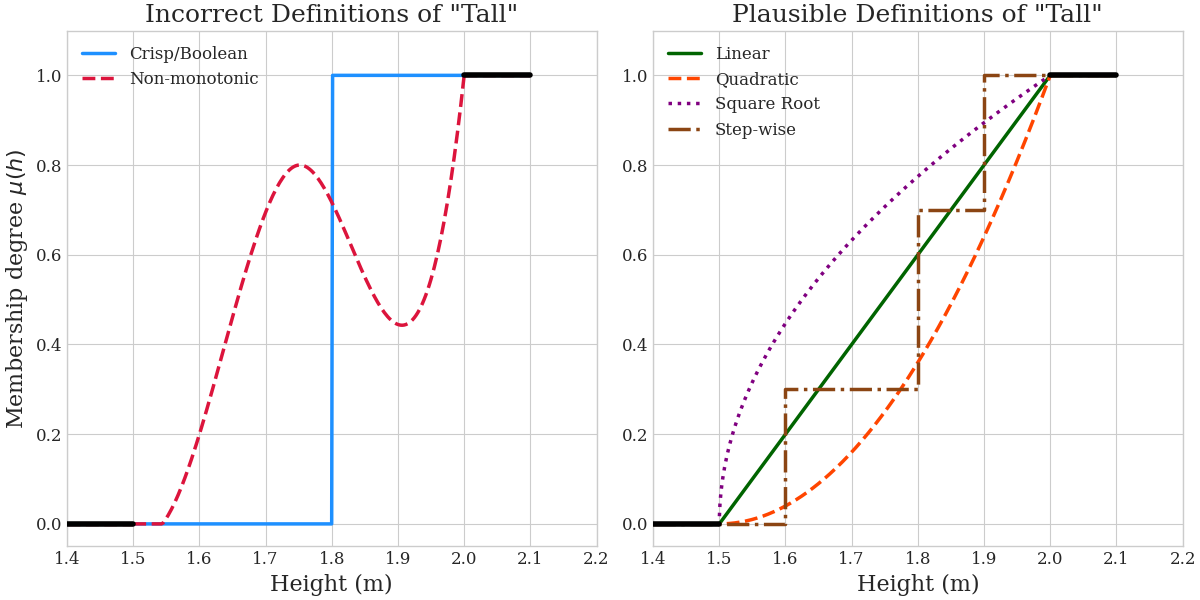
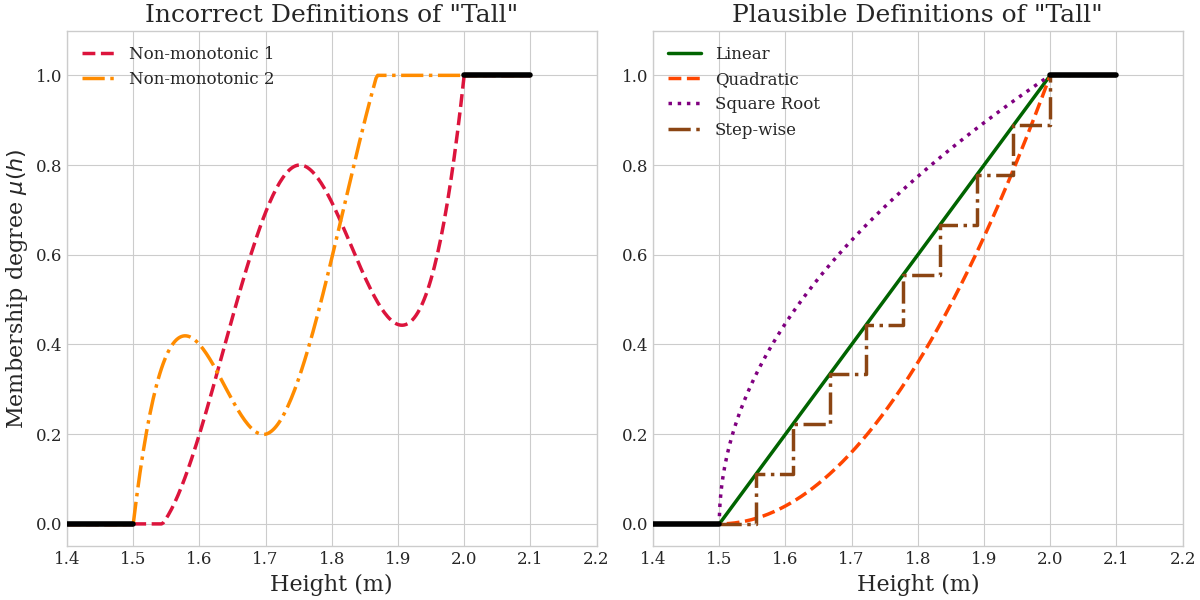
Improved figure

diff --git a/plots/fuzzy_memberships.py b/plots/fuzzy_memberships.py
@@ -5,23 +5,21 @@ from scipy.interpolate import make_interp_spline
 # --- Setup for a professional, LaTeX-like appearance ---
 plt.style.use('seaborn-v0_8-whitegrid')
 plt.rcParams.update({
-    ''font.family": ''serif",  # Use a standard serif font
-    # The line below caused the error and is now removed.
-    # Matplotlib will now use its default, reliable serif font.
-    ''font.size": 14,
-    ''axes.labelsize": 16,
-    ''axes.titlesize": 18,
-    ''xtick.labelsize": 12,
-    ''ytick.labelsize": 12,
-    ''legend.fontsize": 12,
-    ''figure.figsize": (12, 6),
+    "font.family": "serif",  # Use a standard serif font
+    "font.size": 14,
+    "axes.labelsize": 16,
+    "axes.titlesize": 18,
+    "xtick.labelsize": 12,
+    "ytick.labelsize": 12,
+    "legend.fontsize": 12,
+    "figure.figsize": (12, 6),
 })
 
 # Create the figure and a 1x2 grid of subplots
 fig, (ax1, ax2) = plt.subplots(1, 2, constrained_layout=True)
 
 # --- Plot 1: Incorrect Definitions ---
-ax1.set_title('Incorrect Definitions of ''Tall"')
+ax1.set_title('Incorrect Definitions of "Tall"')
 ax1.set_xlabel('Height (m)')
 ax1.set_ylabel('Membership degree $\mu(h)$')
 ax1.set_xlim(1.4, 2.1)
@@ -29,54 +27,61 @@ ax1.set_ylim(-0.05, 1.1)
 ax1.set_xticks(np.arange(1.4, 2.2, 0.1))
 ax1.set_yticks(np.arange(0, 1.1, 0.2))
 
-h_range_full = np.linspace(1.4, 2.1, 500)
+# --- Define and plot two different non-monotonic functions ---
 
-# 1. Crisp / Boolean definition
-mu_crisp = np.where(h_range_full >= 1.8, 1, 0)
-ax1.plot(h_range_full, mu_crisp, label='Crisp/Boolean', color='dodgerblue', linewidth=2.5)
-
-# 2. Non-monotonic definition
-h_points = [1.5, 1.6, 1.75, 1.85, 2.0]
-mu_points = [0, 0.2, 0.8, 0.55, 1.0]
-h_smooth = np.linspace(min(h_points), max(h_points), 200)
-spline = make_interp_spline(h_points, mu_points, k=3)
-mu_non_monotonic = np.clip(spline(h_smooth), 0, 1)
-ax1.plot(h_smooth, mu_non_monotonic, label='Non-monotonic', color='crimson', linewidth=2.5, linestyle='--')
+# 1. First Non-monotonic function (single dip)
+h_points1 = [1.5, 1.6, 1.75, 1.85, 2.0]
+mu_points1 = [0, 0.2, 0.8, 0.55, 1.0]
+h_smooth1 = np.linspace(min(h_points1), max(h_points1), 200)
+spline1 = make_interp_spline(h_points1, mu_points1, k=3)
+mu_non_monotonic1 = np.clip(spline1(h_smooth1), 0, 1)
+ax1.plot(h_smooth1, mu_non_monotonic1, label='Non-monotonic 1', color='crimson', linewidth=2.5, linestyle='--')
+# Extend lines to edges
 ax1.plot([1.4, 1.5], [0,0], color='crimson', linewidth=2.5, linestyle='--')
 ax1.plot([2.0, 2.1], [1,1], color='crimson', linewidth=2.5, linestyle='--')
 
-# 3. Add the thick ''Consensus" lines on top
+# 2. Second Non-monotonic function (up-down-up wiggle)
+h_points2 = [1.5, 1.6, 1.7, 1.85, 2.0]
+mu_points2 = [0, 0.4, 0.2, 0.9, 1.0]
+h_smooth2 = np.linspace(min(h_points2), max(h_points2), 200)
+spline2 = make_interp_spline(h_points2, mu_points2, k=3)
+mu_non_monotonic2 = np.clip(spline2(h_smooth2), 0, 1)
+ax1.plot(h_smooth2, mu_non_monotonic2, label='Non-monotonic 2', color='darkorange', linewidth=2.5, linestyle='-.')
+# Extend lines to edges
+ax1.plot([1.4, 1.5], [0,0], color='darkorange', linewidth=2.5, linestyle='-.')
+ax1.plot([2.0, 2.1], [1,1], color='darkorange', linewidth=2.5, linestyle='-.')
+
+# 3. Add the thick "Consensus" lines on top
 ax1.plot([1.4, 1.5], [0, 0], color='black', linewidth=4, zorder=10)
 ax1.plot([2.0, 2.1], [1, 1], color='black', linewidth=4, zorder=10)
 
 ax1.legend(loc='upper left')
 
-# --- Plot 2: Plausible Definitions ---
-ax2.set_title('Plausible Definitions of ''Tall"')
+# --- Plot 2: Plausible Definitions (Unchanged) ---
+ax2.set_title('Plausible Definitions of "Tall"')
 ax2.set_xlabel('Height (m)')
 ax2.set_xlim(1.4, 2.1)
 ax2.set_ylim(-0.05, 1.1)
 ax2.set_xticks(np.arange(1.4, 2.2, 0.1))
 ax2.set_yticks(np.arange(0, 1.1, 0.2))
 
+h_range_full = np.linspace(1.4, 2.1, 500)
 h_min, h_max = 1.5, 2.0
 h_norm = np.clip((h_range_full - h_min) / (h_max - h_min), 0, 1)
 
-# Plotting the plausible functions
 ax2.plot(h_range_full, h_norm, label='Linear', color='darkgreen', linewidth=2.5, linestyle='-')
 ax2.plot(h_range_full, h_norm**2, label='Quadratic', color='orangered', linewidth=2.5, linestyle='--')
 ax2.plot(h_range_full, np.sqrt(h_norm), label='Square Root', color='purple', linewidth=2.5, linestyle=':')
 
-h_steps = [1.4, 1.6, 1.8, 1.9, 2.0, 2.1]
-mu_values = [0, 0.3, 0.7, 1.0, 1.0, 1.0]
+h_steps = np.linspace(1.5, 2.0, 10)
+mu_values = np.linspace(0, 1.0, 10)
 ax2.step(h_steps, mu_values, where='post', label='Step-wise', color='saddlebrown', linewidth=2.5, linestyle='-.')
 
-# Add the thick ''Consensus" lines on top
 ax2.plot([1.4, 1.5], [0, 0], color='black', linewidth=4, zorder=10)
 ax2.plot([2.0, 2.1], [1, 1], color='black', linewidth=4, zorder=10)
 
 ax2.legend(loc='upper left')
 
 # --- Final Adjustments & Save ---
-plt.savefig('fuzzy_tall_definitions_final_v2.pdf', bbox_inches='tight', dpi=300)
+# plt.savefig('fuzzy_tall_definitions_final_v3.pdf', bbox_inches='tight', dpi=300)
 plt.show()
